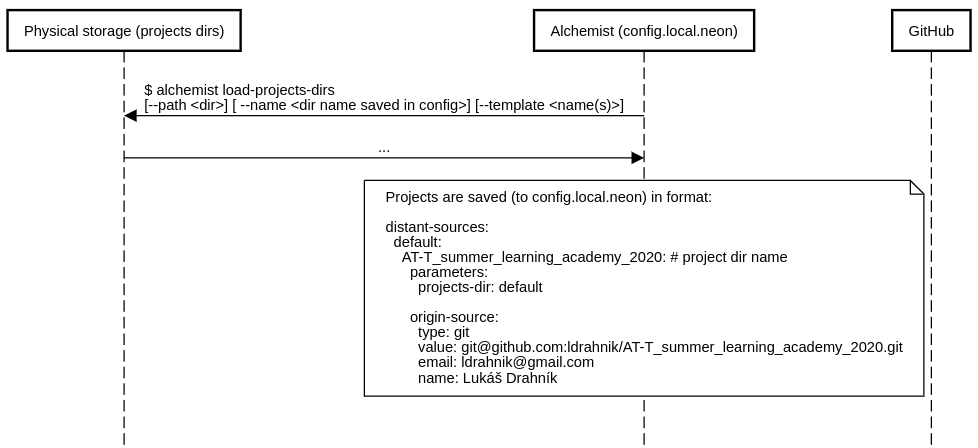
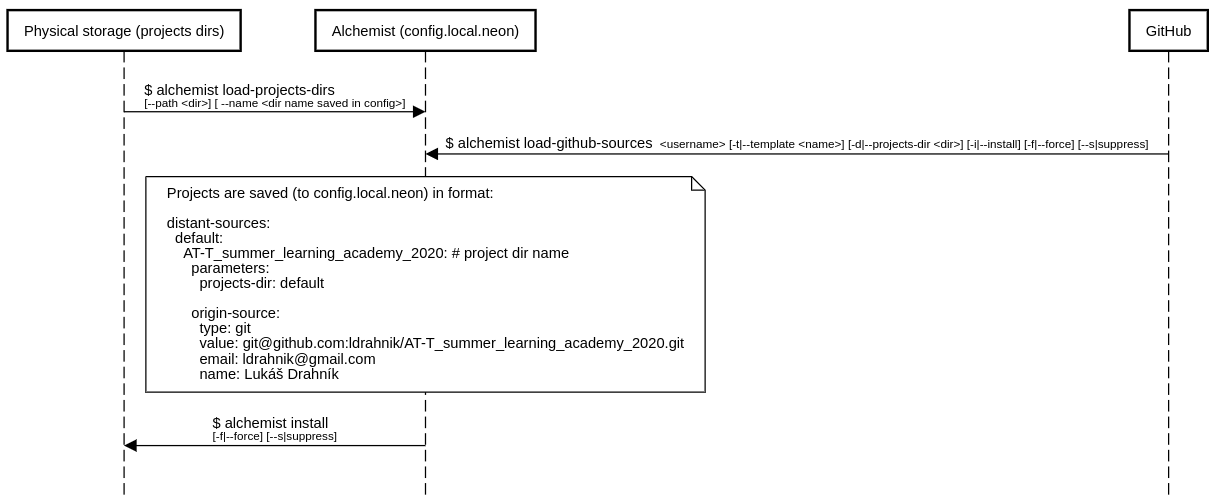
Console: added basic load-github-sources command (not auth user)

diff --git a/src/Manager.php b/src/Manager.php
@@ -171,44 +171,47 @@ class Manager
         // load template
         $templateName = null;
         $distantSources = $this->configurator->getConfig()->getDistantSources();
-        foreach ($distantSources as $distantSource) {
-            foreach ($distantSource as $distantSourceProjectName => $projectData) {
-                if ($distantSourceProjectName == $projectName) {
-                    $templateName = isset($projectData['core']['template']) ? $projectData['core']['template'] : [];
+        if(is_array($distantSources)) {
+            foreach ($distantSources as $distantSource) {
+                foreach ($distantSource as $distantSourceProjectName => $projectData) {
+                    if ($distantSourceProjectName == $projectName) {
+                        $templateName = isset($projectData['core']['template']) ? $projectData['core']['template'] : [];
 
-                    // load default template
-                    $templates = $templateName;
+                        // load default template
+                        $templates = $templateName;
 
-                    if (is_array($templates)) {
-                        foreach ($templates as $template) {
-                            $result[] = $this->templateLoader->getTemplate($template);
-                        }
-                    } else {
-                        $result[] = $this->templateLoader->getTemplate($templates);
-                    }
-
-                    if (empty($result)) {
-                        $projectsDirName = isset($projectData['parameters']['projects-dir']) ? $projectData['parameters']['projects-dir'] : null;
-                        if ($projectsDirName) {
-                            $projectsDirTemplate = $this->configurator->getConfig()
-                                ->getProjectsDirTemplate($projectsDirName);
-                            if ($projectsDirTemplate) {
-                                $result[] = $this->templateLoader->getTemplate($projectsDirTemplate);
+                        if (is_array($templates)) {
+                            foreach ($templates as $template) {
+                                $result[] = $this->templateLoader->getTemplate($template);
                             }
+                        } else {
+                            $result[] = $this->templateLoader->getTemplate($templates);
                         }
-                    }
 
-                    if (empty($result)) {
-                        $templateDefaultName = $this->configurator->getConfig()->getTemplateName();
-                        $result[] = $this->templateLoader->getTemplate($templateDefaultName);
+                        if (empty($result)) {
+                            $projectsDirName = isset($projectData['parameters']['projects-dir']) ? $projectData['parameters']['projects-dir'] : null;
+                            if ($projectsDirName) {
+                                $projectsDirTemplate = $this->configurator->getConfig()->getProjectsDirTemplate($projectsDirName);
+                               if ($projectsDirTemplate) {
+                                   $result[] = $this->templateLoader->getTemplate($projectsDirTemplate);
+                               }
+                           }
+                       }
+
+                       // set default template
+                       if (empty($result)) {
+                           $templateDefaultName = $this->configurator->getConfig()->getTemplateName();
+                           $result = [$this->templateLoader->getTemplate($templateDefaultName)];
+                       }
                     }
                 }
             }
         }
 
         // set default template
-        if (is_array($result) && !count($result)) {
-            $result = $this->templateLoader->getTemplate($this->configurator->getConfig()->getTemplateName());
+        if (empty($result)) {
+            $templateDefaultName = $this->configurator->getConfig()->getTemplateName();
+            $result = [$this->templateLoader->getTemplate($templateDefaultName)];
         }
 
         return $result;
@@ -301,7 +304,8 @@ class Manager
         $isFirst = true;
         if (is_array($templates) && count($templates)) {
             foreach ($templates as $key => $templateName) {
-                $results[] = $this->createProjectInternal($projectName,
+                $results[] = $this->createProjectInternal(
+                    $projectName,
                     $templateName,
                     $parameters,
                     $save,
@@ -313,7 +317,8 @@ class Manager
                 }
             }
         } else {
-            $results[] = $this->createProjectInternal($projectName,
+            $results[] = $this->createProjectInternal(
+                $projectName,
                 $templates,
                 $parameters,
                 $save,
@@ -342,15 +347,11 @@ class Manager
         $templates = $this->loadTemplatePerProject($projectName);
 
         $isFirst = true;
-        if (is_array($templates) && count($templates)) {
-            foreach ($templates as $key => $template) {
-                $results[] = $this->removeProjectInternal($projectName, $template, $parameters, $save, $isFirst);
-                if ($isFirst) {
-                    $isFirst = false;
-                }
+        foreach ($templates as $key => $template) {
+            $results[] = $this->removeProjectInternal($projectName, $template, $parameters, $save, $isFirst);
+            if ($isFirst) {
+                $isFirst = false;
             }
-        } else {
-            $results[] = $this->removeProjectInternal($projectName, null, $parameters, $save, $isFirst);
         }
 
         return $result;
@@ -484,7 +485,7 @@ class Manager
                         $email = exec("cd $projectDir && git config user.email");
                         $name = exec("cd $projectDir && git config user.name");
 
-                        // origin source
+                        // add distant source
                         $distantSourceData = $config->getDistantSource(DistantSource::DEFAULT_DISTANT_SOURCE);
                         $distantSourceData[$projectName] = [
                             'parameters' => [
@@ -886,7 +887,7 @@ class Manager
         // used when is called more templates in row, only first create projectDir
         if ($isFirstCreating) {
             if (!is_readable($projectDir)) {
-                throw new \Exception("Project '$projectName' can not be removed.");
+                throw new \Exception("Project '$projectName' can not be removed. Is not readable '$projectDir'.");
             }
         }
 

diff --git a/src/DistantSource/GithubSourceManager.php b/src/DistantSource/GithubSourceManager.php
@@ -1,0 +1,111 @@
+<?php
+
+/*
+ * This file is part of Alchemist.
+ *
+ * (c) Lukáš Drahník <ldrahnik@gmail.com>
+ *
+ * For the full copyright and license information, please view the LICENSE
+ * file that was distributed with this source code.
+ */
+
+namespace Alchemist\DistantSource;
+
+use Alchemist\Manager;
+use Alchemist\Configurator;
+use Alchemist\DistantSource;
+use Alchemist\TemplateLoader;
+use Github\Client;
+
+/**
+ * @author Lukáš Drahník (http://ldrahnik.com)
+ */
+class GithubSourceManager
+{
+
+    /** @var Manager */
+    private $manager;
+
+    /** @var Configurator */
+    private $configurator;
+
+    /** @var TemplateLoader */
+    private $templateLoader;
+
+    /**
+     * GithubSourceManager constructor.
+     *
+     * @param Manager $manager
+     * @param Configurator $configurator
+     * @param TemplateLoader $templateLoader
+     */
+    public function __construct(Manager $manager, Configurator $configurator, TemplateLoader $templateLoader)
+    {
+        $this->manager = $manager;
+        $this->configurator = $configurator;
+        $this->templateLoader = $templateLoader;
+    }
+
+    public function loadGithubSources($githubUsername, $projectsDirName, $templateName, $install, $force, $suppress) 
+    {
+        $result = [];
+
+        $client = new Client();
+        $repos = $client->api('user')->repositories($githubUsername);
+
+        // add distant sources
+        foreach($repos as $repo) {
+            $projectName = $repo['name'];
+            $projectUrl = $repo['ssh_url'];
+
+            // TODO: duplicated code (args to func pbbly project name, ssh_url, email, name)
+
+            $config = $this->configurator->getConfig();
+
+            // load template
+            $templates = $templateName ? [$this->templateLoader->getTemplate($templateName)] : $this->manager->loadTemplatePerProject($projectName);
+
+            // template parameters merge to parameters loaded by config
+            if ($templates) {
+                $this->configurator->getConfig()->applyParameters($templates[0]->getParameters());
+            }
+
+            // replacement parameters
+            $replacementParameters = $this->configurator->getConfig()->getParameters();
+            $replacementParameters['project-name'] = $projectName;
+            $replacementParameters['project-dir'] = $projectsDirName;
+
+            $email = $replacementParameters['name'];
+            $name = $replacementParameters['email'];
+
+            // add distant source
+            $distantSourceData = $config->getDistantSource(DistantSource::DEFAULT_DISTANT_SOURCE);
+            $distantSourceData[$projectName] = [
+                'parameters' => [
+                     'projects-dir' => $projectsDirName
+                ],
+                'core' => [
+                    'template' => $templateName
+                ],
+                'origin-source' => [
+                    'type' => 'git',
+                    'value' => $projectUrl,
+                    'email' => $email,
+                    'name' => $name
+                ]
+            ];
+            $config->setDistantSource(DistantSource::DEFAULT_DISTANT_SOURCE, $distantSourceData);
+
+            $result[] = $templates ? $this->manager->runScript($templates[0]->getScript($this->manager::SAVE),
+                $replacementParameters) : null;
+
+            $this->configurator->setConfig($config);
+        }
+
+        // install
+        if($install)
+            $this->manager->install($force, $suppress);
+
+        return $result;
+    }
+}

diff --git a/src/Console/Command/LoadGithubSourcesCommand.php b/src/Console/Command/LoadGithubSourcesCommand.php
@@ -1,0 +1,80 @@
+<?php
+
+/*
+ * This file is part of Alchemist.
+ *
+ * (c) Lukáš Drahník <ldrahnik@gmail.com>
+ *
+ * For the full copyright and license information, please view the LICENSE
+ * file that was distributed with this source code.
+ */
+
+namespace Alchemist\Console\Command;
+
+use Alchemist\Console\Utils\ConsoleUtils;
+use Alchemist\DistantSource\GithubSourceManager;
+use Symfony\Component\Console\Input\InputArgument;
+use Symfony\Component\Console\Input\InputInterface;
+use Symfony\Component\Console\Input\InputOption;
+use Symfony\Component\Console\Output\OutputInterface;
+use Symfony\Component\Console\Command\Command;
+use Alchemist\Template;
+
+/**
+ * @author Lukáš Drahník (http://ldrahnik.com)
+ */
+class LoadGithubSourcesCommand extends Command
+{
+
+    /** @var GithubSourceManager $manager */
+    private $githubSourceManager;
+
+    /**
+     * @param GithubSourceManager $manager
+     */
+    public function __construct(
+        GithubSourceManager $githubSourceManager
+    )
+    {
+        parent::__construct();
+        $this->githubSourceManager = $githubSourceManager;
+    }
+
+    protected function configure()
+    {
+        $this
+            ->setName('load-github-sources')
+            ->setDescription('Load github sources')
+            ->setDefinition(array(
+                new InputArgument('username', InputArgument::REQUIRED, 'Github username'),
+                new InputOption('template', 't', InputOption::VALUE_REQUIRED, 'Template name'),
+                new InputOption('projects-dir', 'd', InputOption::VALUE_REQUIRED, 'Projects dir'),
+                new InputOption('install', 'i', InputOption::VALUE_NONE, 'Install projects'),
+                new InputOption('force', 'f', InputOption::VALUE_NONE, 'Re-create alredy existing project'),
+                new InputOption('suppress', 's', InputOption::VALUE_NONE, 'Suppress re-create already existing projects')
+            ));
+    }
+
+    protected function execute(InputInterface $input, OutputInterface $output)
+    {
+        $manager = $this->githubSourceManager;
+
+        $username = $input->getArgument('username');
+        $template = $input->getOption('template');
+        $projectsDir = $input->getOption('projects-dir');
+        $install = $input->getOption('install');
+        $force = $input->getOption('force');
+        $suppress = $input->getOption('suppress');
+
+        if($force && $suppress) {
+            throw new \InvalidArgumentException("Option -f [force] & -s [suppress] can not be set up together.");
+        }
+
+        $result = $manager->loadGithubSources($username, $projectsDir, $template, $install, $force, $suppress);
+
+        ConsoleUtils::writeln($result, $output);
+
+        return 0;
+    }
+
+}

diff --git a/src/Config.php b/src/Config.php
@@ -47,7 +47,7 @@ class Config
                     "bash -c 'cd <project-dir> && git config user.email <email>'"
                 )
             ),
-            'projects-dirs' => array()
+            'projects-dirs' => array(),
         ),
         'distant-sources' => array(
             DistantSource::DEFAULT_DISTANT_SOURCE => array()

diff --git a/tests/alchemist/Console/Command/CommandTestCase.php b/tests/alchemist/Console/Command/CommandTestCase.php
@@ -31,7 +31,7 @@ abstract class CommandTestCase extends TestCase
 {
 
     /** @var string */
-    const PROJECTS_DIR_NAME = 'defaultt';
+    const PROJECTS_DIR_NAME = 'default'; // TODO: renamed from defaultt, idk why
     /** @var string */
     const APP_DATA_DIR = __DIR__ . '/../../../../data';
     /** @var string */
